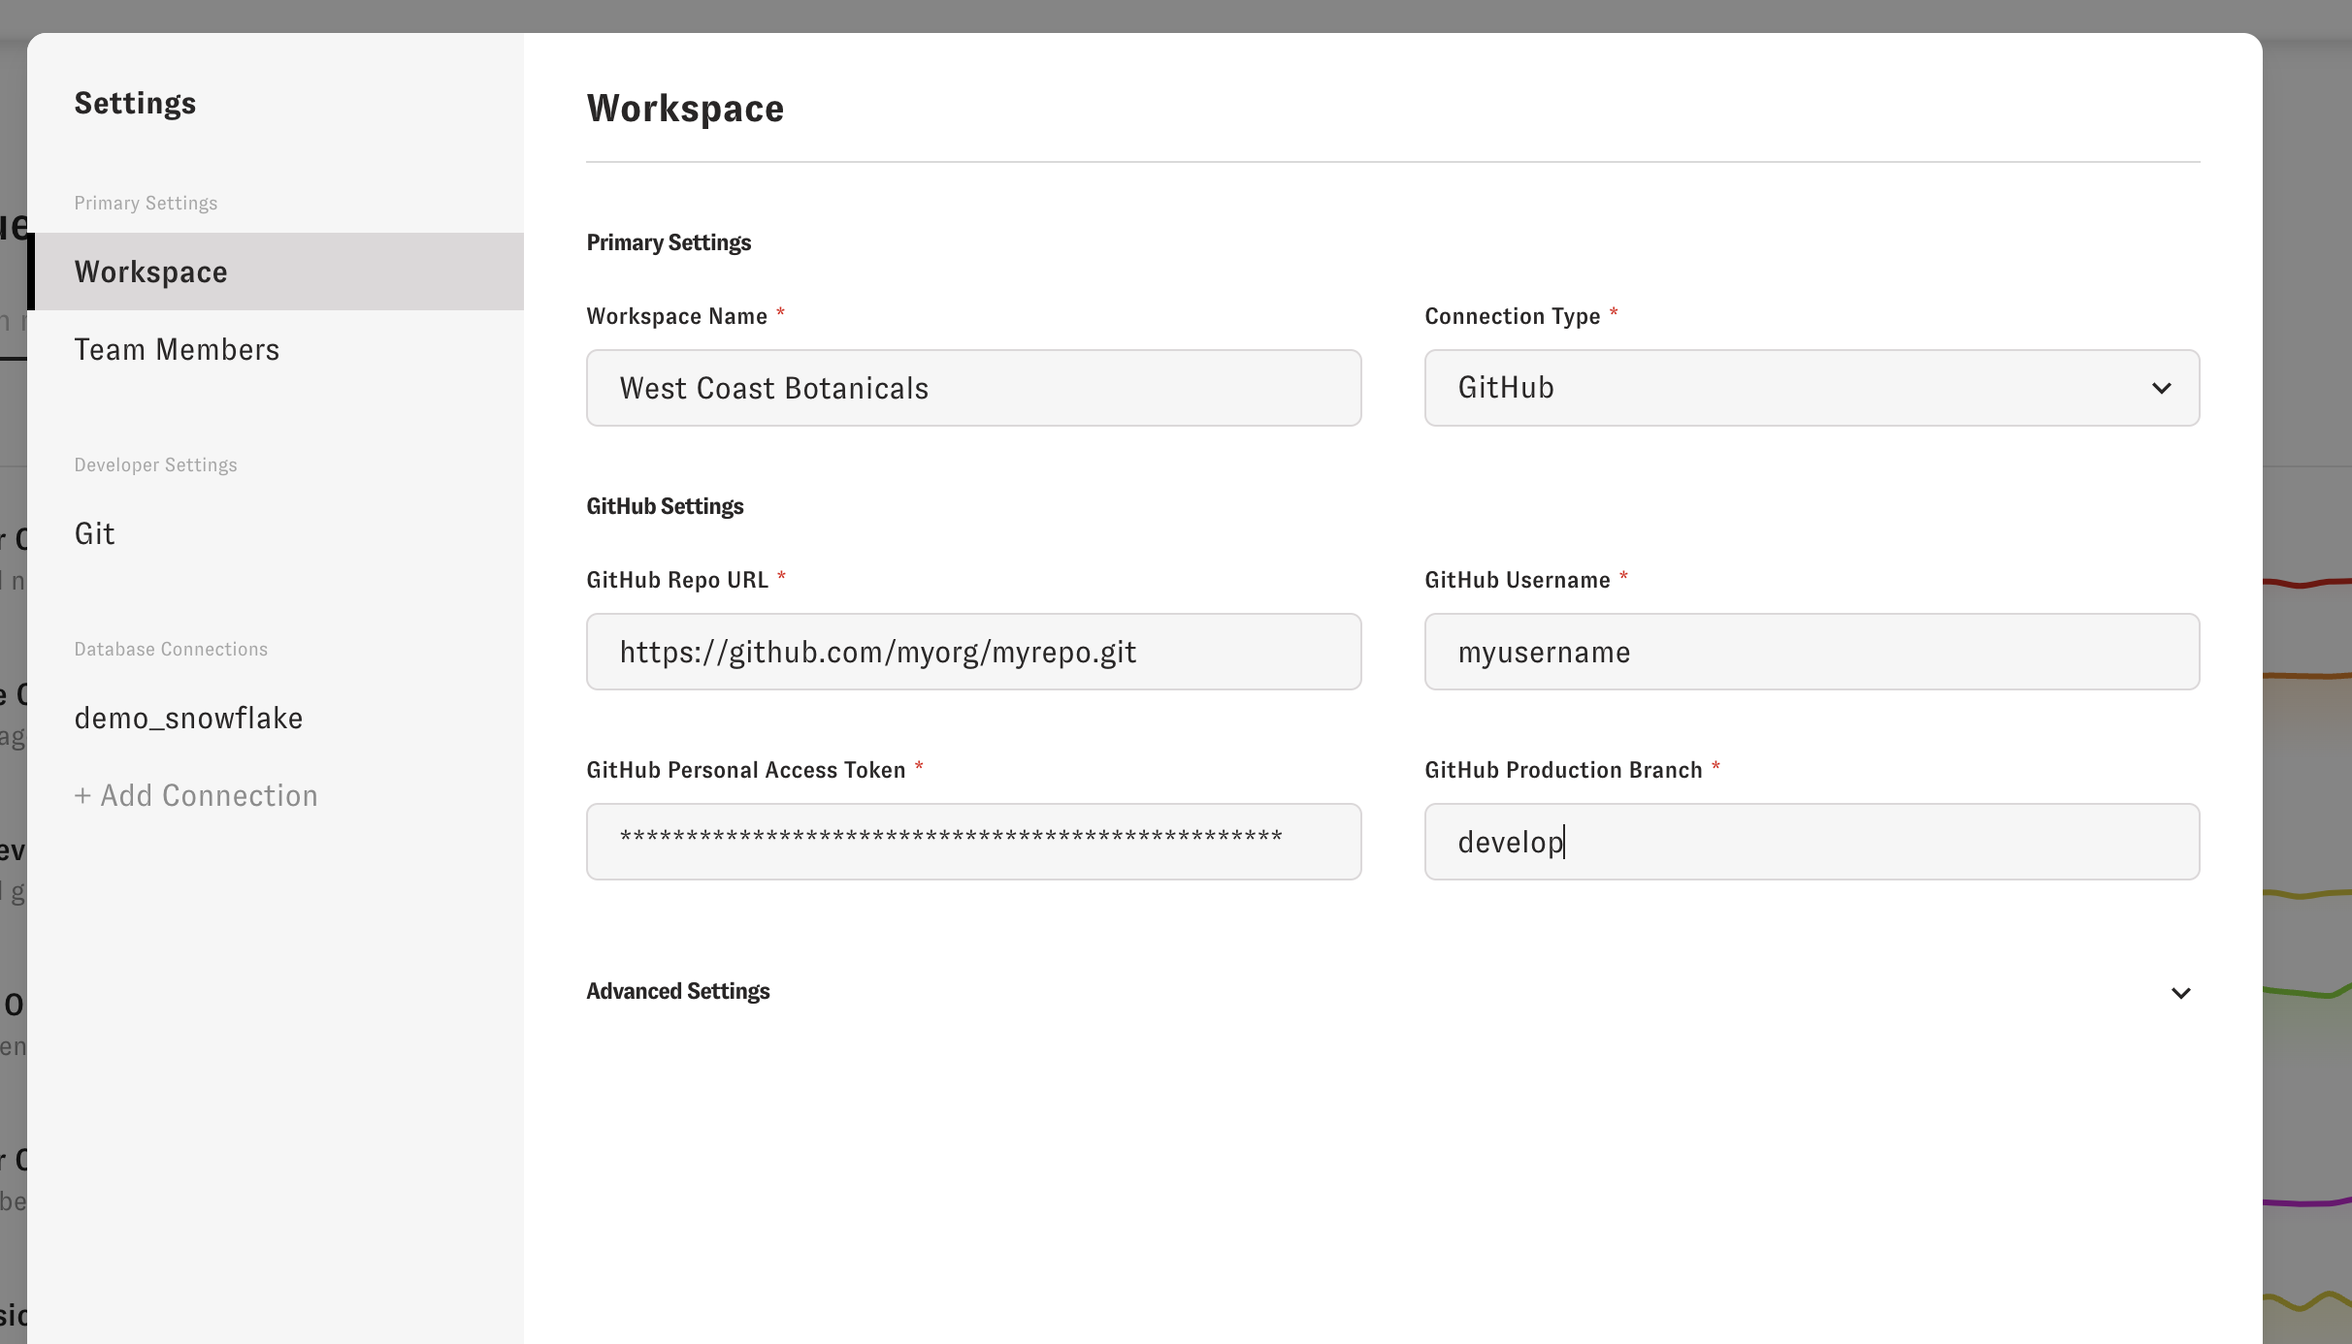
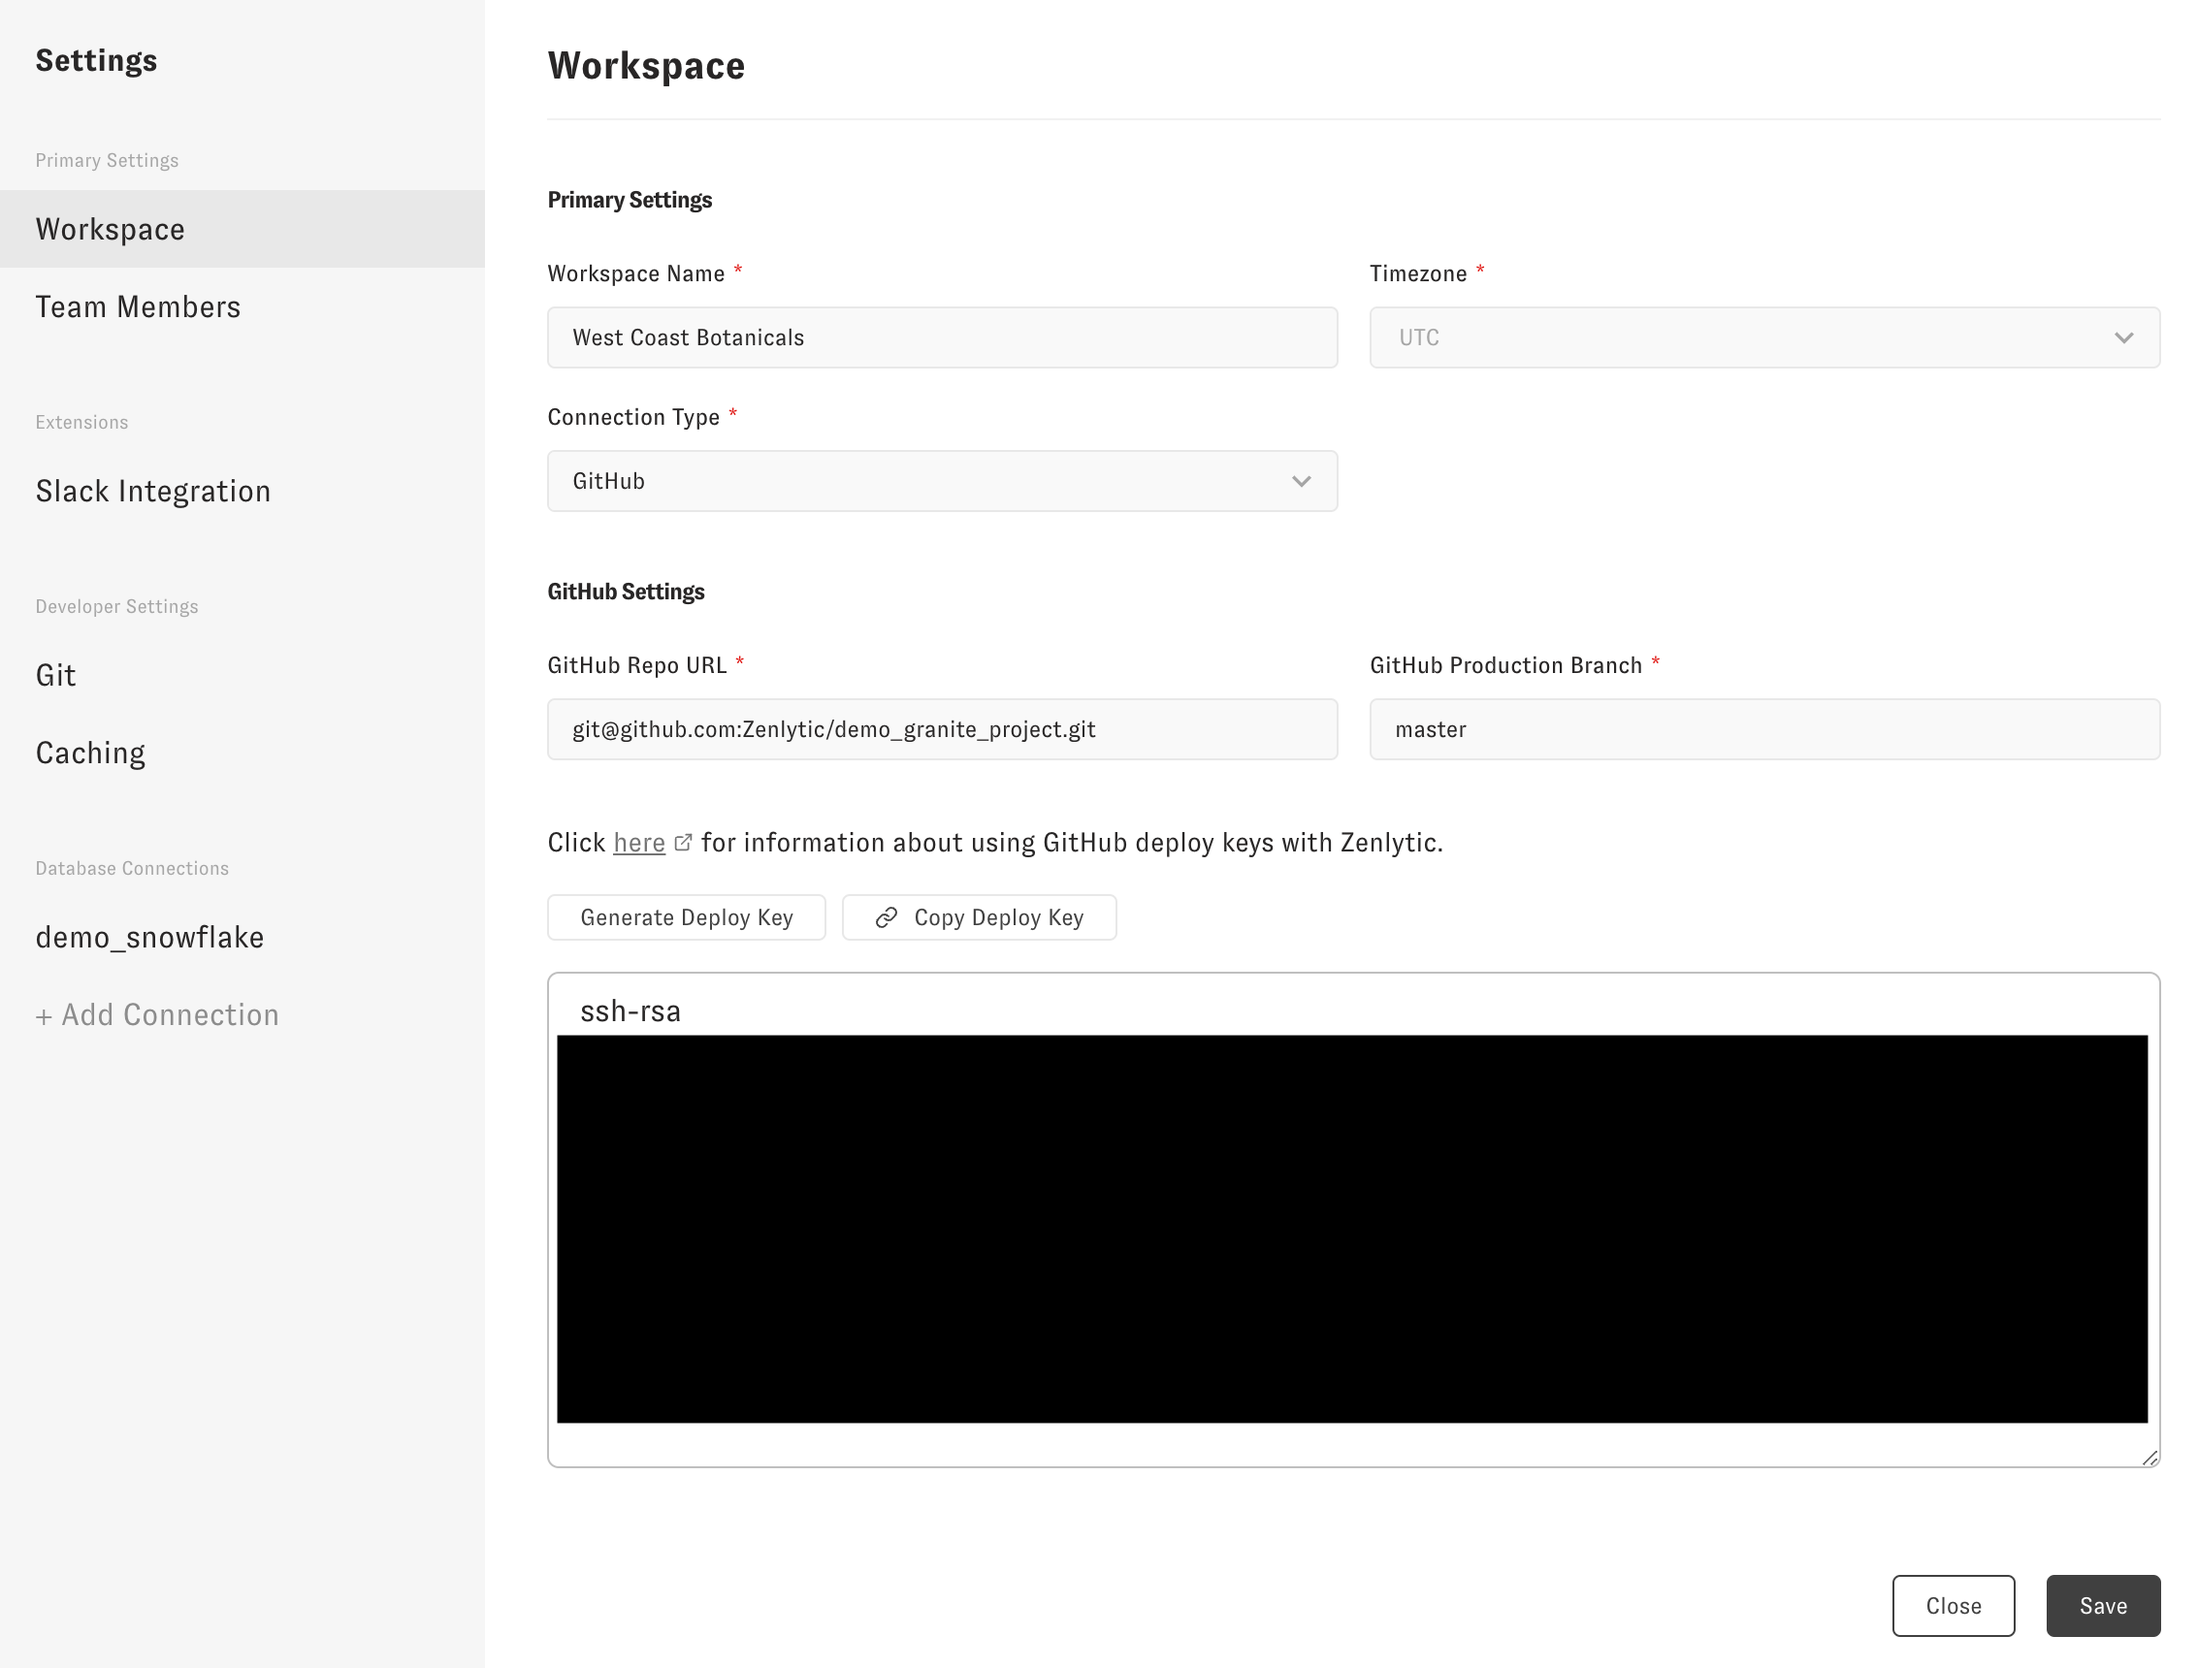
add ssh docs

diff --git a/docs/5_development_environment/2_git.md b/docs/5_development_environment/2_git.md
@@ -8,12 +8,29 @@ To start with your Zenlytic data model, you'll need a [GitHub](https://github.co
 
 To create a repo, follow the [instructions on GitHub](https://docs.github.com/en/get-started/quickstart/create-a-repo).
 
-Next, to give Zenlytic access to your GitHub repo, you'll need to [create a personal access token](https://docs.github.com/en/enterprise-server@3.4/authentication/keeping-your-account-and-data-secure/creating-a-personal-access-token).
-
-Finally you'll go to the Zenlytic UI and go to the settings page
+Next, you'll go to the Zenlytic UI and go to the settings page
 
 ![get-to-settings](../assets/get-to-settings.png)
 
-Once in the settings menu, you'll enter your GitHub information in the Workspace settings section.
+Once in the settings menu, you'll click "Generate Deploy Key" then copy the deploy key. This will connect to your Git repo via SSH. This is the recommended way of connecting and it's the most secure way possible.
 
 ![workspace-settings](../assets/workspace-settings.png)
+
+Next, go to Github and add the deploy key to your repo, pasting in the SSH key you copied in the previous step.
+
+:::tip Deploy Keys
+
+Make sure to give your deploy key write access to the repo if you want to use Zenlytic's data model editor
+
+:::
+
+![github-deploy-keys](../assets/github-deploy-keys.png)
+
+---
+
+
+You can also connect to your Github repo with a Personal Access Token if you do not want to connect via ssh. This method is not optimal compared to ssh, but you can do it if you prefer. 
+
+First, you'll need to [create a personal access token](https://docs.github.com/en/enterprise-server@3.4/authentication/keeping-your-account-and-data-secure/creating-a-personal-access-token). Then, in workspace settings, scroll down to advanced settings, and enter your username and personal access token there.
+
+![workspace-settings-pat](../assets/workspace-settings-pat.png)
